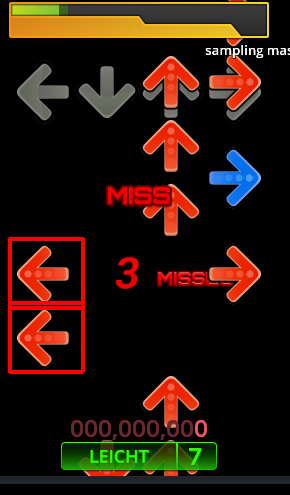
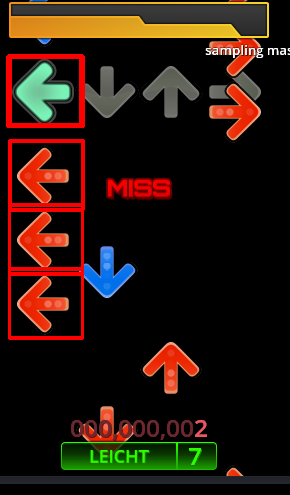
feat: reformatting and combining the modules

diff --git a/pattern_recognition_test/pattern_recog.py b/pattern_recognition_test/pattern_recog.py
@@ -1,17 +1,22 @@
 import cv2 as cv
 import numpy as np
 
-img_rgb = cv.imread(r'assets\arrows.png')
-assert img_rgb is not None, "file could not be read, check with os.path.exists()"
-img_gray = cv.cvtColor(img_rgb, cv.COLOR_BGR2GRAY)
-template = cv.imread(r'assets\small_arrow.png', cv.IMREAD_GRAYSCALE)
-assert template is not None, "file could not be read, check with os.path.exists()"
+class RecognizePattern:
+  def analyzeImage(img):
+    img_gray = cv.cvtColor(img, cv.COLOR_BGR2GRAY)
+    template = cv.imread(r'assets\small_arrow.png', cv.IMREAD_GRAYSCALE)
+    assert template is not None, "file could not be read, check with os.path.exists()"
+    w, h = template.shape[::-1]
+    res = cv.matchTemplate(img_gray,template, cv.TM_CCOEFF_NORMED)
+    threshold = 0.85
+    loc = np.where(res >= threshold)
+    arrowArray = []
+    for pt in zip(*loc[::-1]):
+      cv.rectangle(img, pt, (pt[0] + w, pt[1] + h), (0,0,255), 2)
+      arrowArray.append(pt)
 
-w, h = template.shape[::-1]
-res = cv.matchTemplate(img_gray,template, cv.TM_CCOEFF_NORMED)
-threshold = 0.85
-loc = np.where(res >= threshold)
-for pt in zip(*loc[::-1]):
-  cv.rectangle(img_rgb, pt, (pt[0] + w, pt[1] + h), (0,0,255), 2)
+    cv.imwrite(r'assets\res.png', img)
+    if not arrowArray:
+      arrowArray = [(999, 999)]
 
-cv.imwrite(r'assets\res.png', img_rgb)
+    return arrowArray

diff --git a/image_analysis_test/take_screenshot.py b/image_analysis_test/take_screenshot.py
@@ -3,34 +3,21 @@ import mss.tools
 import win32gui
 import pygetwindow
 import time
-
-def screenshotNew(hwnd, i):
-  win32gui.SetForegroundWindow(hwnd)
-  img = mss.mss().grab(bbox)
-  size = img.size 
-  path = r'assets\benchmarkNew\ss_{}.png'.format(i)
-  mss.tools.to_png(img.rgb, img.size, output=path)
-
-def screenshotOld(hwnd, i):
-  win32gui.SetForegroundWindow(hwnd)
-  img = ImageGrab.grab(bbox)
-  size = img.size 
-  img = img.crop((110, 35, 400, 530))
-  path = r'assets\benchmarkOld\ss_{}.png'.format(i)
-  img.save(path)
-
-def benchmark():
-  start = time.time()
-  i = 0
-  while i < 100:
-    screenshotOld(hwnd, i)
-    i += 1
-
-  end = time.time()
-  print (end - start)
-
+import numpy
 
 stepWindow = pygetwindow.getWindowsWithTitle('StepMania')
 hwnd = stepWindow[0]._hWnd
 bbox = win32gui.GetWindowRect(hwnd)
-benchmark()
+
+class Screenshot:
+  def screenshot(hwnd, bbox):
+    win32gui.SetForegroundWindow(hwnd)
+    img = ImageGrab.grab(bbox)
+    size = img.size 
+    img = img.crop((110, 35, 400, 530))
+
+    # convert ImageGrab image to OpenCV image
+    opencvImg = img.convert('RGB')
+    opencvImg = numpy.array(opencvImg)
+    opencvImg = opencvImg[:, :, ::-1].copy()
+    return opencvImg

diff --git a/main.py b/main.py
@@ -1,0 +1,16 @@
+from input_sending_test.input_sending import SendInput
+from pattern_recognition_test.pattern_recog import RecognizePattern
+from image_analysis_test.take_screenshot import Screenshot
+import pygetwindow
+import win32gui
+import time
+
+stepWindow = pygetwindow.getWindowsWithTitle('StepMania')
+hwnd = stepWindow[0]._hWnd
+bbox = win32gui.GetWindowRect(hwnd)
+useInput = SendInput()
+
+while True:
+  image = Screenshot.screenshot(hwnd, bbox)
+  arrowArray = RecognizePattern.analyzeImage(image)
+  useInput.interpretLocations(locations=arrowArray)

diff --git a/input_sending_test/input_sending.py b/input_sending_test/input_sending.py
@@ -1,0 +1,13 @@
+import pydirectinput
+import time
+
+class SendInput:
+  def sendKey(self, key):
+    pydirectinput.keyUp(key)
+    pydirectinput.keyDown(key)
+
+  def interpretLocations(self, locations):
+    topArrow = locations[0]
+    if (topArrow[1] <= 130):
+      time.sleep(0.3)
+      self.sendKey('d')

diff --git a/pattern_recognition_test/arrow.py b/pattern_recognition_test/arrow.py
@@ -1,0 +1,6 @@
+class Arrow:
+  def __init__(self, location):
+    self.location = location
+
+  def getLocation(self):
+    return self.location

diff --git a/README.md b/README.md
@@ -1,1 +1,3 @@
 # Repository for anything related to my bachelor's thesis
+
+## Any .docx and .pdf files are not relevant to the practical part of this project.
